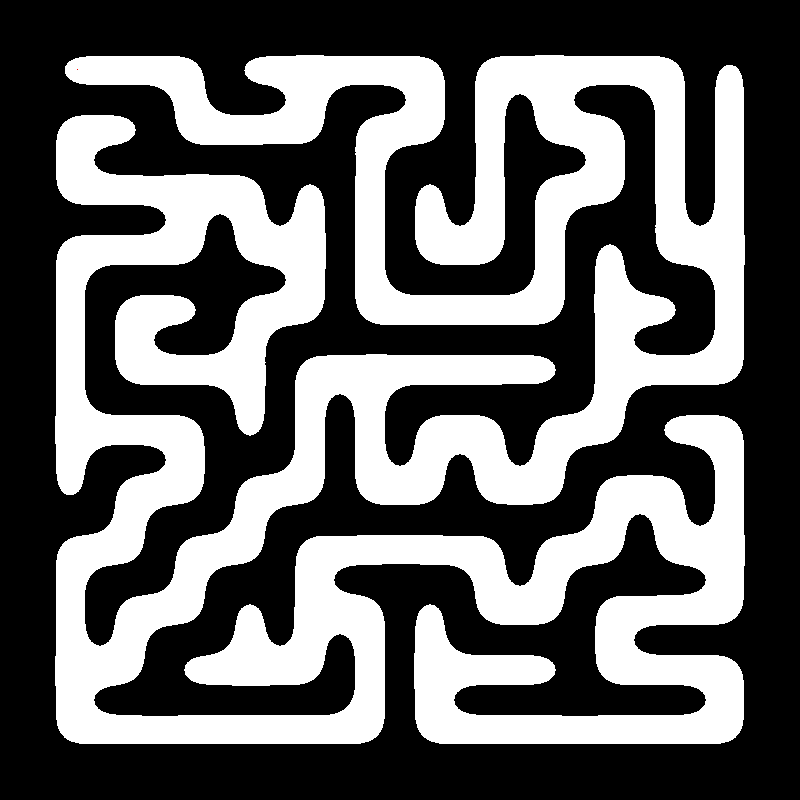
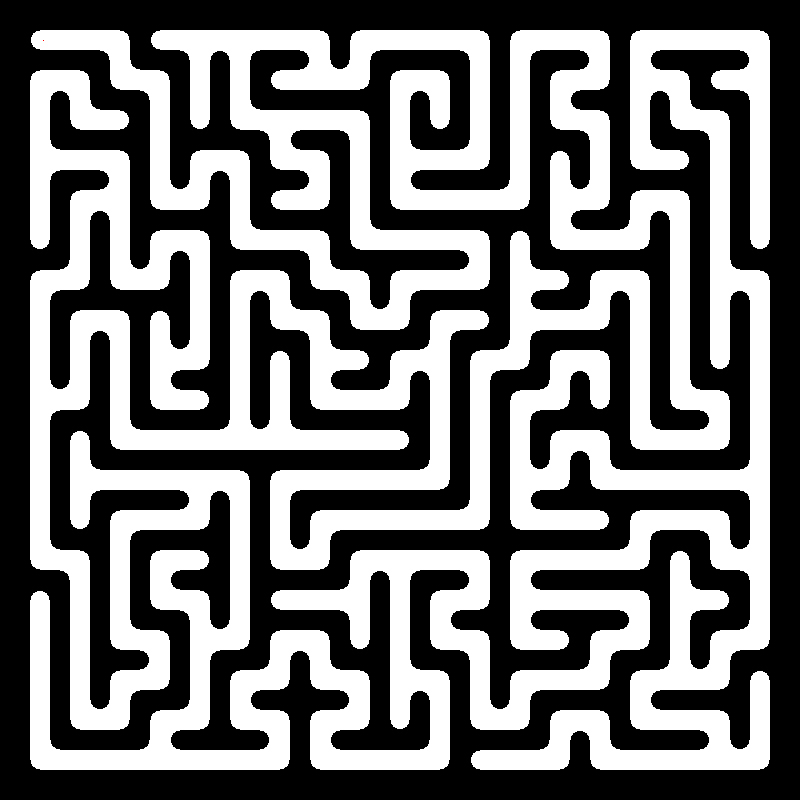
Upgrade ytesrev, better player controls

diff --git a/src/main.rs b/src/main.rs
@@ -1,5 +1,6 @@
 #![feature(bind_by_move_pattern_guards)]
 
+use std::cell::Cell;
 use std::fs::File;
 use std::mem::replace;
 use ytesrev::prelude::*;
@@ -7,6 +8,7 @@ use ytesrev::window::WSETTINGS_MAIN;
 
 use sdl2::event::Event;
 use sdl2::keyboard::Keycode;
+use sdl2::mouse::MouseUtil;
 
 use bincode::{deserialize_from, serialize_into};
 
@@ -23,8 +25,10 @@ pub const SHOW: usize = 20;
 
 pub const SAVE_PATH: &str = "save.bc";
 
+static mut MOUSE: Option<MouseUtil> = None;
+
 fn main() {
-    let img = PngImage::load_from_path(File::open("map-alt.png").unwrap()).unwrap();
+    let img = PngImage::load_from_path(File::open("map.png").unwrap()).unwrap();
 
     let map = Map::create_from_image(&img);
     let map_im = map.clone().into_image();
@@ -63,12 +67,11 @@ fn main() {
         g_id,
         map: &map,
         im: map_im,
-        accel: 0.,
-        rot_vel: 0.,
         old_species: vec![],
         time: 0.,
         speed_mult: 1,
         showing: None,
+        place_mouse: Cell::new(false),
     });
 
     let mut wmng = WindowManager::init_window(
@@ -78,6 +81,11 @@ fn main() {
             ..default_settings("Pong")
         },
     );
+
+    unsafe {
+        MOUSE = Some(wmng.context.mouse());
+    }
+
     wmng.start();
 }
 
@@ -88,15 +96,14 @@ struct GameScene<'a> {
 
     g_id: usize,
 
-    accel: f64,
-    rot_vel: f64,
-
     old_species: Vec<Vec<(Genome, usize)>>,
 
     showing: Option<Vec<usize>>,
 
     time: f64,
     speed_mult: u64,
+
+    place_mouse: Cell<bool>,
 }
 
 impl<'a> Drawable for GameScene<'a> {
@@ -121,12 +128,6 @@ impl<'a> Drawable for GameScene<'a> {
                 keycode: Some(Keycode::Left),
                 ..
             } => {
-                self.rot_vel = -5.;
-            }
-            Event::KeyDown {
-                keycode: Some(Keycode::Num1),
-                ..
-            } => {
                 self.speed_mult -= 1;
                 println!("{}x", self.speed_mult);
             }
@@ -134,30 +135,27 @@ impl<'a> Drawable for GameScene<'a> {
                 keycode: Some(Keycode::Right),
                 ..
             } => {
-                self.rot_vel = 5.;
-            }
-            Event::KeyDown {
-                keycode: Some(Keycode::Num2),
-                ..
-            } => {
                 self.speed_mult += 1;
                 println!("{}x", self.speed_mult);
             }
-            Event::KeyDown {
-                keycode: Some(Keycode::Up),
-                ..
-            } => {
-                self.accel = 40.;
-            }
-            Event::KeyDown {
-                keycode: Some(Keycode::Down),
-                ..
-            } => {
-                self.accel = -40.;
-            }
-            Event::KeyUp { .. } => {
-                self.accel = 0.;
-                self.rot_vel = 0.;
+            Event::MouseMotion { mut xrel, mut yrel, .. } => {
+
+                if xrel.abs() > yrel.abs() {
+                    yrel = 0;
+                } else {
+                    xrel = 0;
+                }
+
+                self.place_mouse.set(true);
+
+                for game in &mut self.games {
+                    if !game.died {
+                        if let Controller::Human = game.controller {
+                            game.player_dir += xrel as f64 * 0.002;
+                            game.player_speed -= yrel as f64 * 0.8;
+                        }
+                    }
+                }
             }
             _ => {}
         }
@@ -173,13 +171,6 @@ impl<'a> Drawable for GameScene<'a> {
         for i in 0..self.speed_mult {
             for game in &mut self.games {
                 game.update(dt);
-
-                if !game.died {
-                    if let Controller::Human = game.controller {
-                        game.player_dir += self.rot_vel * dt;
-                        game.player_speed += self.accel * dt;
-                    }
-                }
             }
         }
 
@@ -209,6 +200,17 @@ impl<'a> Drawable for GameScene<'a> {
                 _ => {}
             }
             game.draw(canvas, position, settings);
+        }
+
+        if self.place_mouse.replace(false) {
+            unsafe {
+                let (w, h) = canvas.window().size();
+                if let Some(mouse) = &MOUSE {
+                    mouse.warp_mouse_in_window(canvas.window(), w as i32 / 2, h as i32 / 2);
+                    mouse.show_cursor(false);
+                    mouse.set_relative_mouse_mode(true);
+                }
+            }
         }
     }
 }

diff --git a/src/map.rs b/src/map.rs
@@ -18,9 +18,12 @@ impl Map {
         for x in 0..image.width {
             for y in 0..image.height {
                 let idx = x + y * image.width;
-                let b = image.data[4 * idx];
+                let r = image.data[4 * idx];
                 let g = image.data[4 * idx + 1];
-                let r = image.data[4 * idx + 2];
+                let b = image.data[4 * idx + 2];
+                let a = image.data[4 * idx + 3];
+
+                // println!("{} {} {} {}", a, r , g, b);
 
                 let b = match (r, g, b) {
                     (255, 255, 255) => Tile::Ground(u64::MAX),
